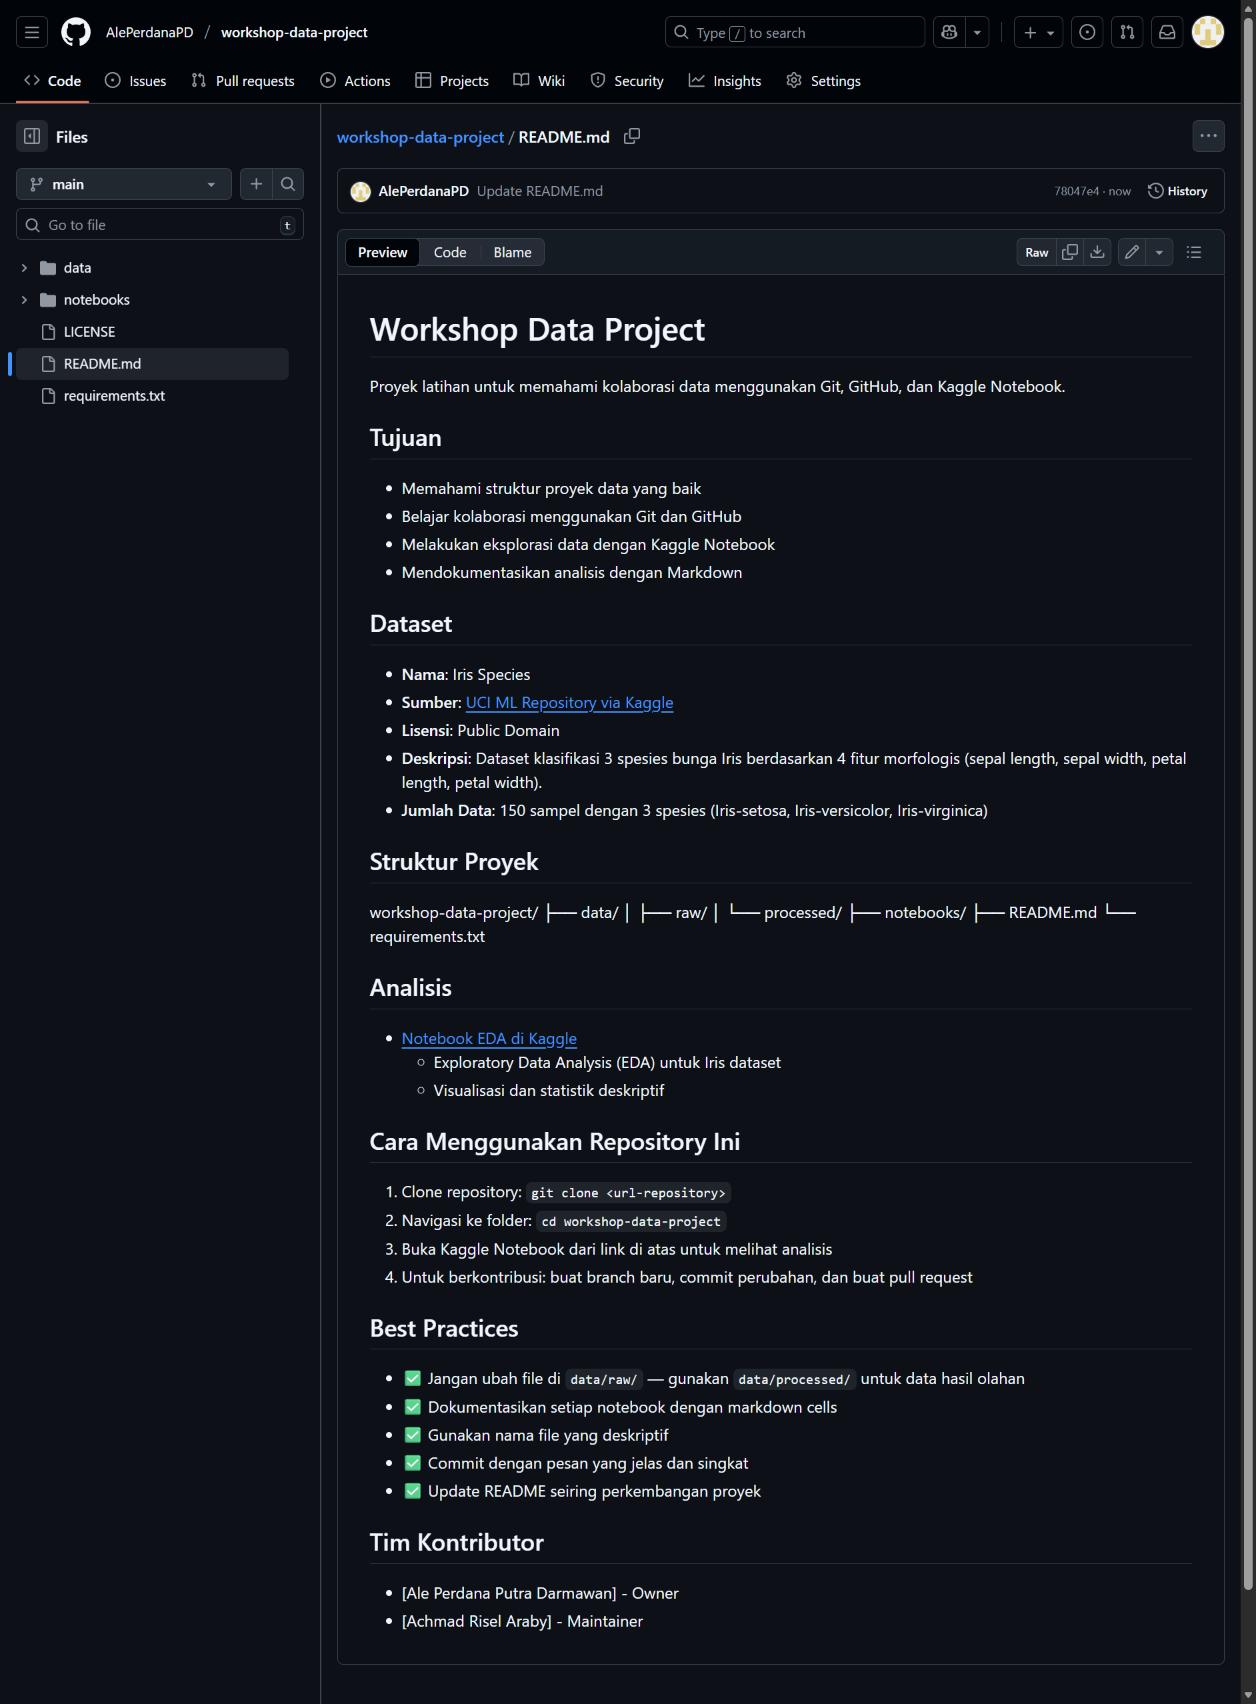
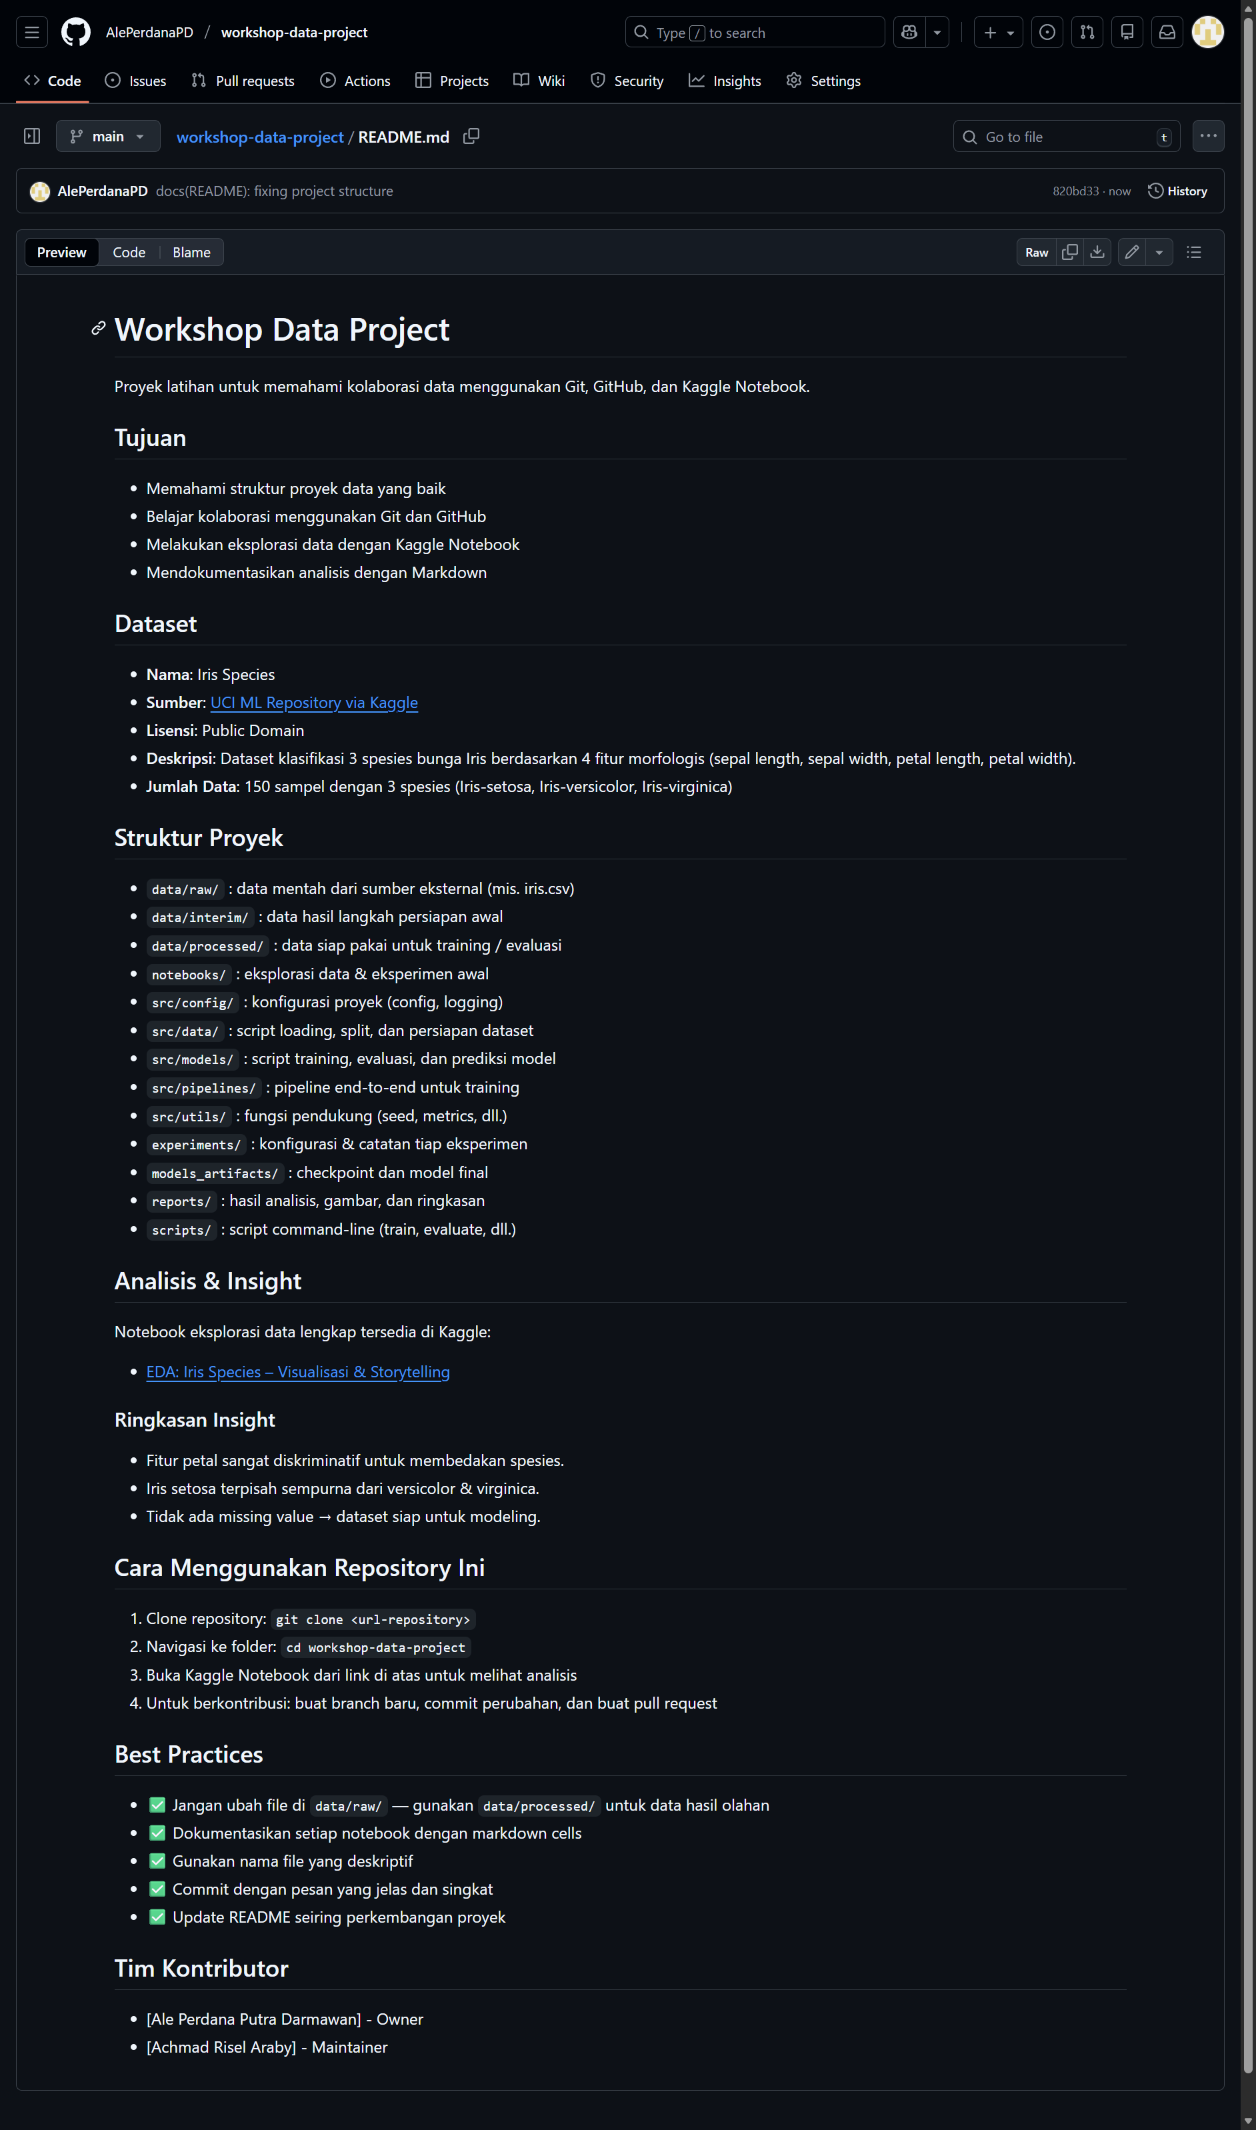
docs(day 1): fixed image link for 1.3 and 1.5

diff --git a/day-1/1.3 Dokumentasi Dasar Markdown.md b/day-1/1.3 Dokumentasi Dasar Markdown.md
@@ -108,15 +108,26 @@ Deskripsi singkat proyek (1–2 kalimat).
 - **Deskripsi**: Dataset klasifikasi 3 spesies bunga Iris berdasarkan 4 fitur morfologis.
 
 ## Struktur Proyek
-- `data/`: Data mentah dan hasil olahan
-- `notebooks/`: Eksplorasi dan analisis
+- `data/raw/`         : data mentah dari sumber eksternal (mis. iris.csv)
+- `data/interim/`     : data hasil langkah persiapan awal
+- `data/processed/`   : data siap pakai untuk training / evaluasi
+- `notebooks/`        : eksplorasi data & eksperimen awal
+- `src/config/`       : konfigurasi proyek (config, logging)
+- `src/data/`         : script loading, split, dan persiapan dataset
+- `src/models/`       : script training, evaluasi, dan prediksi model
+- `src/pipelines/`    : pipeline end-to-end untuk training
+- `src/utils/`        : fungsi pendukung (seed, metrics, dll.)
+- `experiments/`      : konfigurasi & catatan tiap eksperimen
+- `models_artifacts/` : checkpoint dan model final
+- `reports/`          : hasil analisis, gambar, dan ringkasan
+- `scripts/`          : script command-line (train, evaluate, dll.)
 
 ## Analisis
 - [Notebook EDA di Kaggle](https://www.kaggle.com/username/notebook-name)
 ```
 
 > ✅ Simpan file **README.md** di GitHub — akan otomatis muncul sebagai halaman utama repositori!
-![Create README Example](images/5_Dokumentasi_Dasar_Markdown/1a.png)
+![Create README Example](images/3_Dokumentasi_Dasar_Markdown/1a.png)
 
 ---
 

diff --git a/day-1/1.5 Eksplorasi Dataset Terbuka.md b/day-1/1.5 Eksplorasi Dataset Terbuka.md
@@ -35,21 +35,21 @@ Dataset **Iris** adalah salah satu dataset paling terkenal dalam dunia machine l
 1. **Buka halaman dataset**  
    - Lihat deskripsi: konteks, sumber, dan atribusi
    - Perhatikan lisensi (biasanya **Public Domain** atau **CC0** – bebas digunakan)
-![Iris Dataset Page](images/3_Eksplorasi_Dataset_Terbuka/1a.png)
+![Iris Dataset Page](images/5_Eksplorasi_Dataset_Terbuka/1a.png)
 
 2. **Lihat file yang tersedia**
    - `Iris.csv` → file utama (150 baris, 6 kolom termasuk `Id`)
    - `database.sqlite` → versi alternatif (tidak perlu digunakan untuk sesi ini)
-![View Dataset Files](images/3_Eksplorasi_Dataset_Terbuka/1b.png)
+![View Dataset Files](images/5_Eksplorasi_Dataset_Terbuka/1b.png)
 
 3. **Preview data langsung di browser**  
    Kaggle menampilkan 100 baris pertama dalam bentuk tabel interaktif
-![Preview Data](images/3_Eksplorasi_Dataset_Terbuka/1c.png)
+![Preview Data](images/5_Eksplorasi_Dataset_Terbuka/1c.png)
 
 4. **Baca metadata & diskusi (opsional)**  
    - Tab **Discussion**: lihat pertanyaan umum atau insight dari komunitas
    - Tab **Code**: lihat notebook lain yang menggunakan dataset ini
-![Metadata and Discussion](images/3_Eksplorasi_Dataset_Terbuka/1d.png)
+![Metadata and Discussion](images/5_Eksplorasi_Dataset_Terbuka/1d.png)
 
 ---
 
